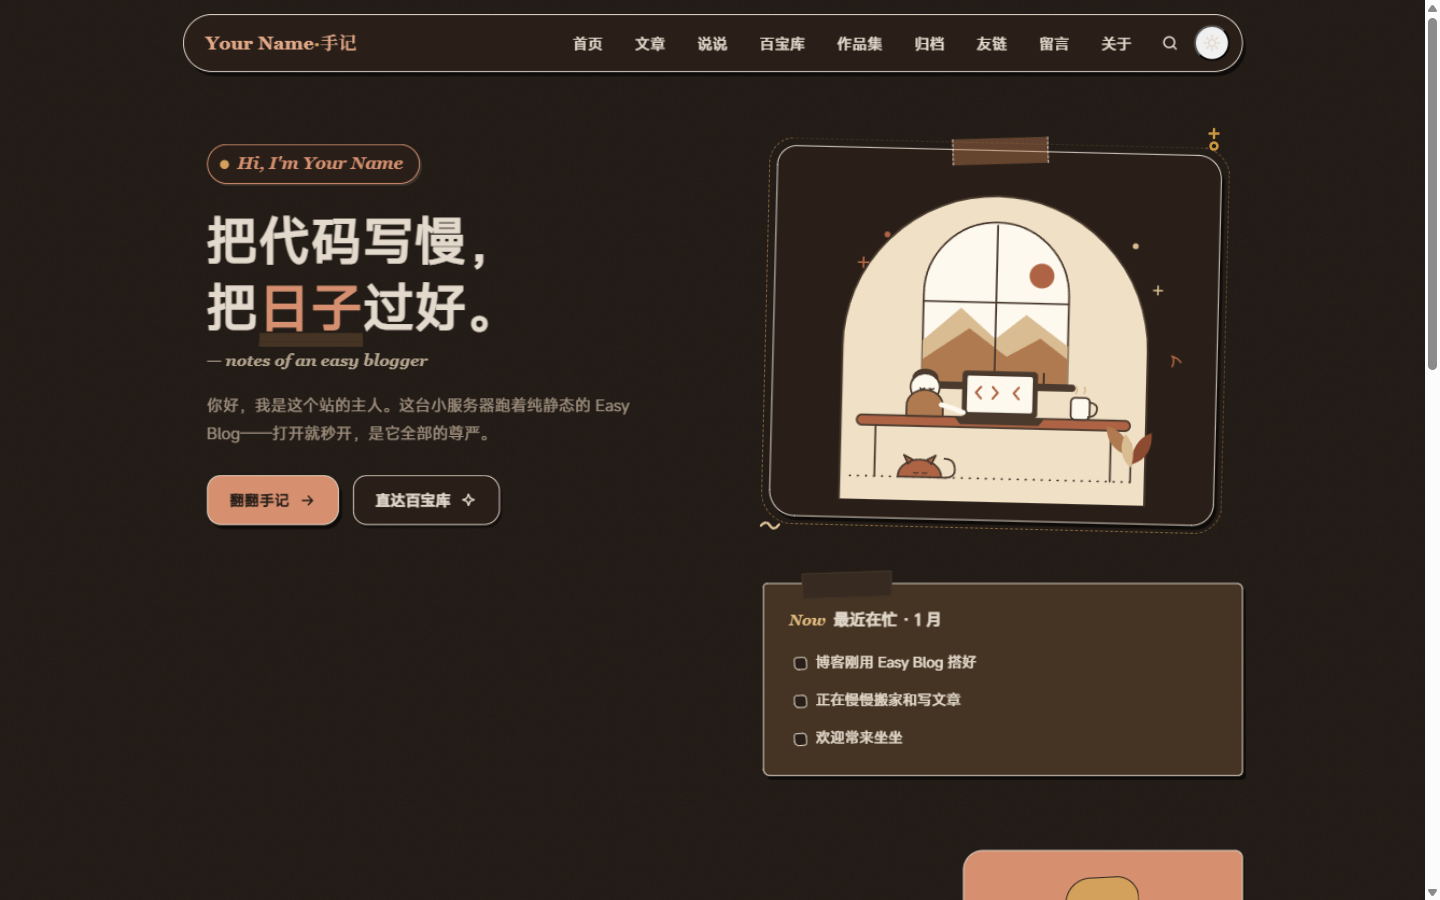
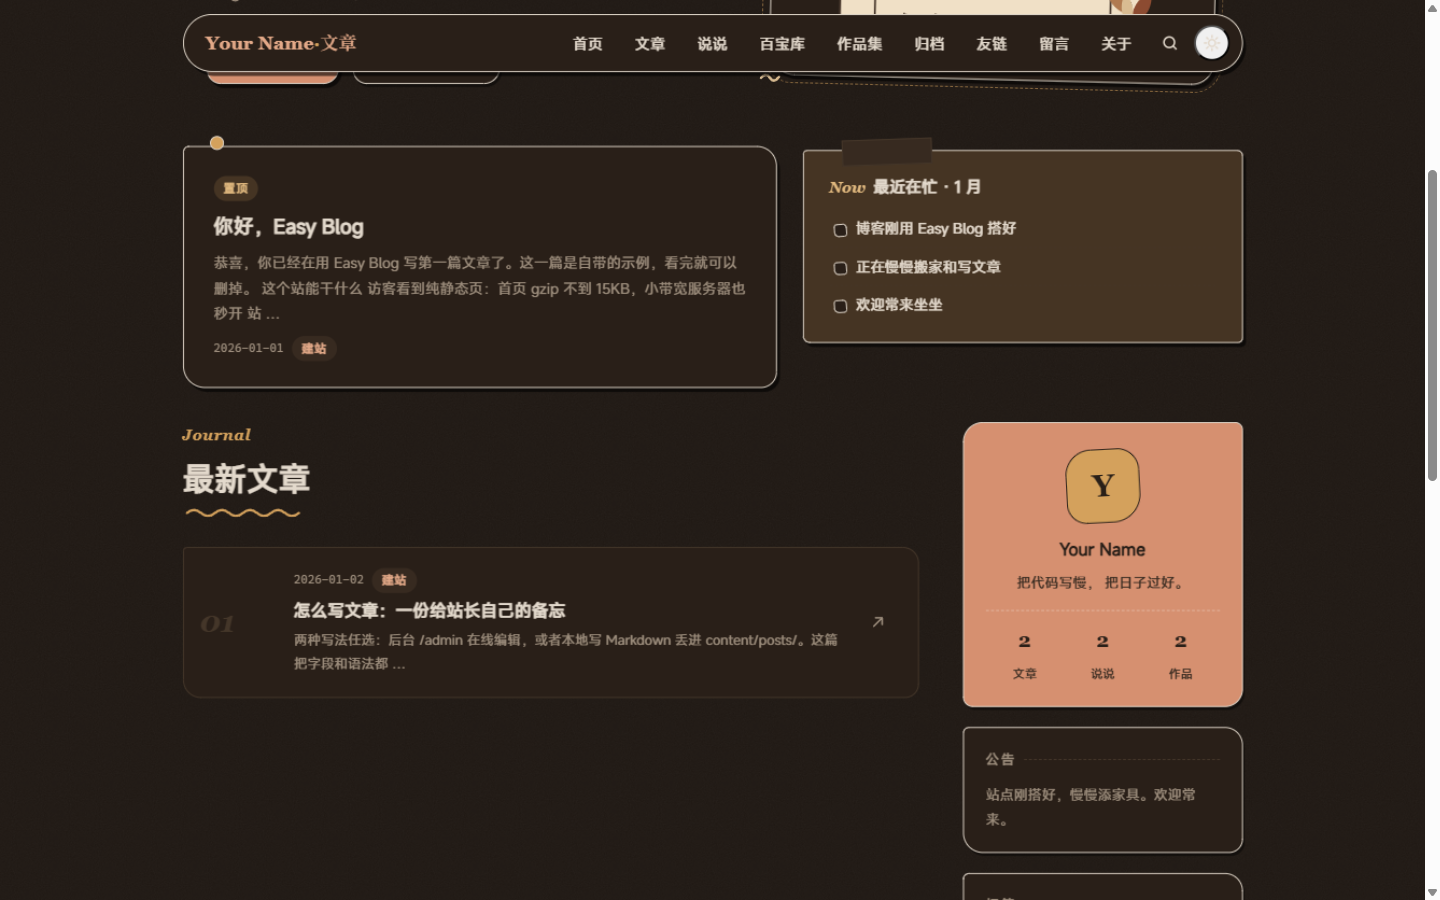
首页改版 + 文案统一 + 站点配置 AI 卡片
- 首页：置顶卡与 NOW 便利贴合并同行（桌面双列/移动单列）
- 首页：百宝库下新增「作品集精选」区块（复用 trove-mini 卡片）
- 主题：「文章」类文案参数化 posts_label（默认 文章），导航/侧栏/面包屑/404/AI 提示词统一取值
- 侧栏统计：标签数改为作品数
- 站点配置：新增 AI 助手卡片（开关/名字/打招呼/占位提示，hugo.yaml ai 块整体重写、注释保留、构建失败回滚）
- 更新 README 截图

diff --git a/layouts/index.html b/layouts/index.html
@@ -1,5 +1,6 @@
 {{ define "main" }}
 {{- $p := site.Params }}
+{{- $label := $p.posts_label | default "文章" }}
 
 {{- /* ============ Hero ============ */}}
 {{- $heroHTML := site.Params.motto | default "把代码写慢，把日子过好。" | htmlEscape }}
@@ -16,7 +17,7 @@
       <p class="sub-en rise d3">— {{ $p.sub_en }}</p>
       <p class="lead rise d3">{{ $p.intro | safeHTML }}</p>
       <div class="hero-cta rise d4">
-        <a class="btn btn-solid" href="/posts/">翻翻手记
+        <a class="btn btn-solid" href="/posts/">翻翻{{ $label }}
           <svg width="17" height="17" viewBox="0 0 24 24" fill="none" stroke="currentColor" stroke-width="2.2" stroke-linecap="round" stroke-linejoin="round" aria-hidden="true"><path d="M5 12h14M13 6l6 6-6 6"/></svg>
         </a>
         <a class="btn btn-ghost" href="/treasure/">直达百宝库
@@ -35,39 +36,45 @@
   </div>
 </header>
 
-{{- /* ============ NOW 便利贴 ============ */}}
-{{- with $p.now }}
-<div class="wrap now-wrap">
+{{- /* ============ 置顶手记 + NOW 便利贴（同行并排） ============ */}}
+{{- $all := where site.RegularPages "Section" "posts" }}
+{{- $pinned := where $all "Params.pin" true }}
+{{- if or $pinned $p.now }}
+<div class="wrap pin-now-row">
+  {{- with $pinned }}
+  <div class="pin-col">
+    {{- range . }}
+    <a class="pick-feature reveal" href="{{ .RelPermalink }}">
+      <span class="pin" aria-hidden="true"></span>
+      <span class="tag alt">置顶</span>
+      <h3>{{ .Title }}</h3>
+      <p>{{ .Summary | plainify | truncate 90 }}</p>
+      <span class="post-meta"><time class="tag plain">{{ .Date.Format "2006-01-02" }}</time>
+      {{- range .GetTerms "categories" }}<span class="tag">{{ .LinkTitle }}</span>{{ end }}
+      </span>
+    </a>
+    {{- end }}
+  </div>
+  {{- end }}
+  {{- with $p.now }}
   <aside class="now rise d5" aria-label="最近在忙">
     <h3>Now<span>最近在忙 · {{ .date }}</span></h3>
     <ul>
       {{- range .items }}<li>{{ . }}</li>{{ end }}
     </ul>
   </aside>
+  {{- end }}
 </div>
 {{- end }}
 
-{{- /* ============ 主体：文章流 + 侧栏 ============ */}}
+{{- /* ============ 主体：手记流 + 侧栏 ============ */}}
 <div class="wrap home-flow">
   <div class="layout">
     <div>
-      {{- $all := where site.RegularPages "Section" "posts" }}
-      {{- $pinned := where $all "Params.pin" true }}
       {{- $pag := .Paginate (where $all "Params.pin" "ne" true) }}
-      {{- range $pinned }}
-      <a class="pick-feature reveal" href="{{ .RelPermalink }}">
-        <span class="pin" aria-hidden="true"></span>
-        <span class="tag alt">置顶</span>
-        <h3>{{ .Title }}</h3>
-        <p>{{ .Summary | plainify | truncate 90 }}</p>
-        <span class="post-meta"><time class="tag plain">{{ .Date.Format "2006-01-02" }}</time>
-        {{- range .GetTerms "categories" }}<span class="tag">{{ .LinkTitle }}</span>{{ end }}
-        </span>
-      </a>
-      {{- end }}
       <header class="sec-head reveal">
         <span class="sec-kicker">Journal</span>
-        <h2>最新手记
+        <h2>最新{{ $label }}
           <svg class="squiggle" viewBox="0 0 118 10" fill="none" aria-hidden="true"><path d="M2 6 q7 -6 14 0 t14 0 t14 0 t14 0 t14 0 t14 0 t14 0 t14 0" stroke="currentColor" stroke-width="2.4" stroke-linecap="round"/></svg>
         </h2>
       </header>
@@ -119,6 +126,32 @@
       {{- $isLink := and .Params.link (not .Content) }}
       <a class="toy"{{ if $isLink }} href="{{ .Params.link }}" target="_blank" rel="noopener"{{ else }} href="{{ .RelPermalink }}"{{ end }}>
         <span class="toy-cat">{{ index (dict "game" "游戏" "tool" "工具" "book" "书与影") (.Params.cat | default "tool") }}{{ if not $isLink }} · 原创{{ end }}</span>
+        <h3>{{ .Title }}</h3>
+        <p class="toy-desc">{{ .Params.desc | default (.Summary | plainify | truncate 40) }}</p>
+      </a>
+      {{- end }}
+    </div>
+  </section>
+  {{- end }}
+
+  {{- /* ============ 作品集精选（仿百宝库） ============ */}}
+  {{- $worksHome := first 3 (where site.RegularPages "Section" "works") }}
+  {{- if $worksHome }}
+  <section class="section reveal" style="padding-top:26px">
+    <header class="sec-head" style="display:flex;align-items:flex-end;justify-content:space-between;gap:16px;flex-wrap:wrap;margin-bottom:22px">
+      <div>
+        <span class="sec-kicker">Works</span>
+        <h2>作品集精选
+          <svg class="squiggle" viewBox="0 0 118 10" fill="none" aria-hidden="true"><path d="M2 6 q7 -6 14 0 t14 0 t14 0 t14 0 t14 0 t14 0 t14 0 t14 0" stroke="currentColor" stroke-width="2.4" stroke-linecap="round"/></svg>
+        </h2>
+      </div>
+      <a class="more-link" href="/works/">全部作品 →</a>
+    </header>
+    <div class="trove-mini">
+      {{- range $worksHome }}
+      {{- $stk := split (.Params.stack | default "") "," }}
+      <a class="toy"{{ if .Params.link }} href="{{ .Params.link }}" target="_blank" rel="noopener"{{ else }} href="{{ .RelPermalink }}"{{ end }}>
+        <span class="toy-cat">{{ with $stk }}{{ trim (index $stk 0) " " }}{{ else }}作品{{ end }}</span>
         <h3>{{ .Title }}</h3>
         <p class="toy-desc">{{ .Params.desc | default (.Summary | plainify | truncate 40) }}</p>
       </a>

diff --git a/server/admin/index.html b/server/admin/index.html
@@ -401,6 +401,21 @@ input:focus,select:focus,textarea:focus{outline:2px dashed var(--honey);outline-
         </div>
       </div>
       <div class="card">
+        <div class="card-hd"><b>AI 助手</b>
+          <span class="hint">前台右下角的聊天小人；要真正会回答，还需服务器上配好模型 Key（AI_PROVIDER / AI_API_KEY 环境变量）</span>
+        </div>
+        <div class="fields">
+          <div><label>开关</label>
+            <div style="display:flex;gap:8px;align-items:center;padding-top:8px">
+              <input type="checkbox" id="c-ai-on" style="width:auto"><label for="c-ai-on" style="margin:0">在前台显示 AI 助手</label>
+            </div>
+          </div>
+          <div><label>名字</label><input id="c-ai-name" placeholder="如：小满"></div>
+          <div class="full"><label>打招呼（访客打开面板看到的第一句）</label><textarea id="c-ai-hello"></textarea></div>
+          <div><label>输入框占位提示</label><input id="c-ai-ph" placeholder="问点什么…"></div>
+        </div>
+      </div>
+      <div class="card">
         <div class="card-hd"><b>首页便利贴「最近在忙」</b>
           <span class="right"><button class="btn ghost sm" id="c-now-add">+ 加一条</button></span>
         </div>
@@ -1099,6 +1114,10 @@ function loadSiteCfg(){
     $('#c-seo-bing').value = c.seo_bing || '';
     $('#c-seo-baidu').value = c.seo_baidu || '';
     $('#c-now-date').value = c.now_date || '';
+    $('#c-ai-on').checked = !!c.ai_enabled;
+    $('#c-ai-name').value = c.ai_name || '';
+    $('#c-ai-hello').value = c.ai_hello || '';
+    $('#c-ai-ph').value = c.ai_placeholder || '';
     renderNowItems(c.now_items || []);
   });
 }
@@ -1131,6 +1150,12 @@ $('#c-save').addEventListener('click', function(){
       intro: $('#c-intro').value, site_birth: $('#c-birth').value, icp: $('#c-icp').value,
       notice: $('#c-notice').value,
       seo_google: $('#c-seo-google').value.trim(), seo_bing: $('#c-seo-bing').value.trim(), seo_baidu: $('#c-seo-baidu').value.trim()
+    },
+    ai: {
+      enabled: $('#c-ai-on').checked,
+      name: $('#c-ai-name').value.trim(),
+      hello: $('#c-ai-hello').value.trim(),
+      placeholder: $('#c-ai-ph').value.trim()
     },
     nowDate: $('#c-now-date').value, items: items, build: true
   }).then(function(j){ afterBuild(j, '设置已发布！') }).catch(function(e){ toast(e.message, 1) });

diff --git a/layouts/partials/head.html b/layouts/partials/head.html
@@ -35,7 +35,7 @@
 <script type="application/ld+json">{"@context":"https://schema.org","@type":"Person","name":{{ site.Params.author | jsonify }},"url":{{ site.BaseURL | jsonify }},"description":{{ site.Params.motto | jsonify }}{{- $same := slice }}{{- range site.Params.socials }}{{ $same = $same | append .url }}{{- end }}{{ with $same }},"sameAs":{{ $same | jsonify }}{{ end }}}</script>
 {{- else if and (eq .Kind "page") (eq .Section "posts") }}
 <script type="application/ld+json">{"@context":"https://schema.org","@type":"BlogPosting","headline":{{ .Title | jsonify }},"description":{{ $desc | plainify | jsonify }},"url":{{ .Permalink | jsonify }},"mainEntityOfPage":{{ .Permalink | jsonify }},"datePublished":{{ .Date.Format "2006-01-02T15:04:05Z07:00" | jsonify }},"dateModified":{{ .Lastmod.Format "2006-01-02T15:04:05Z07:00" | jsonify }},"wordCount":{{ .WordCount }},"inLanguage":"zh-CN"{{- with $ogImage }},"image":{{ (printf "/img/%s.jpg" .) | absURL | jsonify }}{{- end }},"author":{"@type":"Person","name":{{ site.Params.author | jsonify }}},"publisher":{"@type":"Person","name":{{ site.Params.author | jsonify }}}}</script>
-<script type="application/ld+json">{"@context":"https://schema.org","@type":"BreadcrumbList","itemListElement":[{"@type":"ListItem","position":1,"name":"首页","item":{{ site.BaseURL | jsonify }}},{"@type":"ListItem","position":2,"name":"手记","item":{{ "posts/" | absURL | jsonify }}},{"@type":"ListItem","position":3,"name":{{ .Title | jsonify }},"item":{{ .Permalink | jsonify }}}]}</script>
+<script type="application/ld+json">{"@context":"https://schema.org","@type":"BreadcrumbList","itemListElement":[{"@type":"ListItem","position":1,"name":"首页","item":{{ site.BaseURL | jsonify }}},{"@type":"ListItem","position":2,"name":"{{ site.Params.posts_label | default "文章" }}","item":{{ "posts/" | absURL | jsonify }}},{"@type":"ListItem","position":3,"name":{{ .Title | jsonify }},"item":{{ .Permalink | jsonify }}}]}</script>
 {{- end }}
 <meta name="theme-color" content="#F7F1E4" media="(prefers-color-scheme: light)">
 <meta name="theme-color" content="#1F1813" media="(prefers-color-scheme: dark)">

diff --git a/assets/css/main.css b/assets/css/main.css
@@ -137,7 +137,10 @@ a.tag:hover{background:var(--pine);color:var(--paper)}
 @keyframes float{0%,100%{transform:translateY(0)}50%{transform:translateY(-9px)}}
 
 /* ---------- NOW 便利贴 ---------- */
-.now-wrap{display:flex;justify-content:flex-end;padding:22px 0 10px}
+.pin-now-row{display:grid;grid-template-columns:minmax(0,1.35fr) minmax(280px,1fr);gap:26px;align-items:start;padding:26px 0 0}
+.pin-now-row .pick-feature{margin-bottom:20px}
+.pin-now-row .pick-feature:last-child{margin-bottom:0}
+.pin-now-row .now{width:100%;margin-top:4px}
 .now{
   width:min(480px,100%);background:var(--caramel-mist);border:1.5px solid var(--ink);
   border-radius:4px 6px 5px 7px;padding:22px 26px 18px;transform:rotate(-1.3deg);
@@ -152,8 +155,8 @@ a.tag:hover{background:var(--pine);color:var(--paper)}
 .now li:last-child{border-bottom:none}
 .now li::before{content:"";position:absolute;left:4px;top:14px;width:11px;height:11px;border:1.5px solid var(--ink);border-radius:3px 4px 3px 5px;background:var(--paper);transform:rotate(-4deg)}
 
-/* ---------- 首页：精选 + 文章流 ---------- */
-.home-flow{padding:64px 0 30px}
+/* ---------- 首页：精选 + 手记流 ---------- */
+.home-flow{padding:34px 0 30px}
 .pick-feature{
   display:block;position:relative;margin-bottom:26px;padding:26px 30px;
   background:var(--paper);border:1.5px solid var(--ink);border-radius:6px 20px 16px 22px;
@@ -552,13 +555,16 @@ footer::before{content:"";display:block;width:150px;margin:0 auto 22px;border-to
   .hero-art{max-width:470px;margin:0 auto}
   .about-grid{grid-template-columns:1fr;gap:36px}
   .article-toc{display:none}
+  .pin-now-row{grid-template-columns:1fr}
+  .pin-now-row .now{margin-top:2px}
 }
 @media(max-width:600px){
   .nav{top:8px;margin-top:8px;padding:6px 8px 6px 14px}
   .nav-links a{padding:5px 9px;font-size:13px}
   .hero{padding-top:44px}
   .hero h1{font-size:30px}
-  .now-wrap{padding:12px 0 4px}
+  .pin-now-row{padding:16px 0 0}
+  .pin-now-row .now{transform:rotate(-.6deg)}
   .post-item{grid-template-columns:1fr;gap:6px;padding:16px 18px}
   .post-no{display:none}
   .post-arrow{display:none}

diff --git a/static/ai/chat.js b/static/ai/chat.js
@@ -66,12 +66,13 @@
     var acc = '';
 
     loadIndex().then(function () {
-      var sys = '你是个人网站「' + (cfg.site || 'Easy Blog') + '」的 AI 导览员' +
+      var LB = cfg.label || '文章';
+      var sys = '你是个人网站「' + (cfg.site || '我的小站') + '」的 AI 导览员' +
         (cfg.name ? '，名字叫' + cfg.name : '') +
         '。语气轻松口语化，答案简洁（尽量 3 句以内），不用列大段清单。\n' +
-        '站点页面：/posts/ 文章、/sayings/ 说说、/treasure/ 百宝库(好物推荐)、/archives/ 归档、/search/ 搜索、/board/ 留言板、/about/ 关于。\n' +
-        (siteIndex ? '现有文章列表：\n' + siteIndex + '\n' : '') +
-        '问题与文章相关就结合列表回答并给出 /posts/xxx/ 路径；无关问题也可以聊，但记住自己的人设。';
+        '站点页面：/posts/ ' + LB + '、/sayings/ 说说、/treasure/ 百宝库(好物推荐)、/archives/ 归档、/search/ 搜索、/board/ 留言板、/about/ 关于。\n' +
+        (siteIndex ? '现有' + LB + '列表：\n' + siteIndex + '\n' : '') +
+        '问题与' + LB + '相关就结合列表回答并给出 /posts/xxx/ 路径；无关问题也可以聊，但记住自己的人设。';
 
       history.push({ role: 'user', content: q });
       var body = JSON.stringify({ messages: [{ role: 'system', content: sys }].concat(history.slice(-12)) });

diff --git a/layouts/404.html b/layouts/404.html
@@ -2,7 +2,7 @@
 <div class="wrap" style="padding-top:90px;text-align:center;max-width:560px">
   <p style="font-family:var(--font-en);font-style:italic;font-weight:600;font-size:74px;line-height:1;color:var(--caramel)">404</p>
   <h1 style="font-size:24px;margin:14px 0 8px">这页纸好像被风吹走了</h1>
-  <p style="color:var(--ink-soft);font-size:15px;margin-bottom:28px">地址可能敲错了，或者文章还没写出来。<br>要不，回首页翻翻？</p>
+  <p style="color:var(--ink-soft);font-size:15px;margin-bottom:28px">地址可能敲错了，或者{{ site.Params.posts_label | default "文章" }}还没写出来。<br>要不，回首页翻翻？</p>
   <a class="btn btn-solid" href="{{ site.Home.RelPermalink }}">回首页
     <svg width="17" height="17" viewBox="0 0 24 24" fill="none" stroke="currentColor" stroke-width="2.2" stroke-linecap="round" stroke-linejoin="round" aria-hidden="true"><path d="M5 12h14M13 6l6 6-6 6"/></svg>
   </a>

diff --git a/layouts/partials/sidebar.html b/layouts/partials/sidebar.html
@@ -1,4 +1,4 @@
-{{- /* 侧边栏（文章页会被 TOC 覆盖） */}}
+{{- /* 侧边栏（内容页会被 TOC 覆盖） */}}
 <div class="side">
   <div class="side-card me-card">
     {{- if fileExists "static/img/avatar.jpg" }}
@@ -11,9 +11,10 @@
     <div class="me-stats">
       {{- $posts := where site.RegularPages "Section" "posts" }}
       {{- $says := where site.RegularPages "Section" "sayings" }}
-      <div><b>{{ len $posts }}</b><span>文章</span></div>
+      {{- $works := where site.RegularPages "Section" "works" }}
+      <div><b>{{ len $posts }}</b><span>{{ site.Params.posts_label | default "文章" }}</span></div>
       <div><b>{{ len $says }}</b><span>说说</span></div>
-      <div><b>{{ len site.Taxonomies.tags }}</b><span>标签</span></div>
+      <div><b>{{ len $works }}</b><span>作品</span></div>
     </div>
   </div>
   {{- with site.Params.notice }}

diff --git a/layouts/sayings/list.html b/layouts/sayings/list.html
@@ -6,7 +6,7 @@
     <h1 style="font-size:clamp(26px,3.6vw,34px)">说说
       <svg class="squiggle" viewBox="0 0 118 10" fill="none" aria-hidden="true"><path d="M2 6 q7 -6 14 0 t14 0 t14 0 t14 0 t14 0 t14 0 t14 0 t14 0" stroke="currentColor" stroke-width="2.4" stroke-linecap="round"/></svg>
     </h1>
-    <p style="color:var(--ink-soft);font-size:14.5px;margin-top:-16px">三言两语，不成文章。</p>
+    <p style="color:var(--ink-soft);font-size:14.5px;margin-top:-16px">三言两语，不成{{ site.Params.posts_label | default "文章" }}。</p>
   </header>
   <div class="layout">
     <ol class="say-list">

diff --git a/layouts/partials/ai.html b/layouts/partials/ai.html
@@ -23,7 +23,7 @@
   </div>
 </div>
 <script>
-window.__AI_CFG={name:{{ $ai.name | jsonify }},hello:{{ $ai.hello | jsonify }},site:{{ site.Title | jsonify }}};
+window.__AI_CFG={name:{{ $ai.name | jsonify }},hello:{{ $ai.hello | jsonify }},site:{{ printf "%s 的%s" site.Params.author (site.Params.posts_label | default "文章") | jsonify }},label:{{ site.Params.posts_label | default "文章" | jsonify }}};
 (function(){
   var fab=document.getElementById('ai-fab'),loaded=false;
   fab.addEventListener('click',function(){

diff --git a/layouts/_default/single.html b/layouts/_default/single.html
@@ -5,7 +5,7 @@
   {{- /* ================= 文章页 ================= */}}
   <article class="article">
     <nav class="crumb" aria-label="面包屑">
-      <a href="{{ site.Home.RelPermalink }}">首页</a> / <a href="/posts/">手记</a> / {{ .Title }}
+      <a href="{{ site.Home.RelPermalink }}">首页</a> / <a href="/posts/">{{ site.Params.posts_label | default "文章" }}</a> / {{ .Title }}
     </nav>
     <h1>{{ .Title }}</h1>
     <div class="article-meta">

diff --git a/layouts/partials/nav.html b/layouts/partials/nav.html
@@ -1,5 +1,5 @@
 <nav class="nav" aria-label="主导航">
-  <a class="nav-logo" href="{{ site.Home.RelPermalink }}">{{ site.Params.author }}<b>·</b>手记</a>
+  <a class="nav-logo" href="{{ site.Home.RelPermalink }}">{{ site.Params.author }}<b>·</b>{{ site.Params.posts_label | default "文章" }}</a>
   <div class="nav-right">
     <ul class="nav-links">
       {{- range site.Menus.main }}

diff --git a/server/siteconfig.go b/server/siteconfig.go
@@ -23,6 +23,7 @@ func readSiteConfig() map[string]any {
 		"site_birth": "", "icp": "", "notice": "", "now_date": "",
 		"seo_google": "", "seo_bing": "", "seo_baidu": "",
 		"now_items": []string{},
+		"ai_enabled": false, "ai_name": "", "ai_hello": "", "ai_placeholder": "",
 	}
 	b, err := os.ReadFile(hugoYamlPath)
 	if err != nil {
@@ -32,12 +33,13 @@ func readSiteConfig() map[string]any {
 		out["title"] = strings.Trim(strings.TrimSpace(m[1]), `"`)
 	}
 	lines := strings.Split(string(b), "\n")
-	inNow := false
+	inNow, inAI := false, false
 	var items []string
 	reKV := regexp.MustCompile(`^\s{2}(\w+):\s*(.*)$`)
 	for _, l := range lines {
 		if m := reKV.FindStringSubmatch(l); m != nil {
 			inNow = m[1] == "now"
+			inAI = m[1] == "ai"
 			if v, ok := out[m[1]]; ok {
 				if _, isStr := v.(string); isStr && m[2] != "" {
 					raw := m[2]
@@ -60,6 +62,22 @@ func readSiteConfig() map[string]any {
 				inNow = false
 			}
 		}
+		if inAI {
+			if m := regexp.MustCompile(`^\s{4}(enabled|name|placeholder):\s*(.*)$`).FindStringSubmatch(l); m != nil {
+				v := strings.Trim(strings.TrimSpace(m[2]), `"`)
+				if m[1] == "enabled" {
+					out["ai_enabled"] = v == "true"
+				} else {
+					out["ai_"+m[1]] = v
+				}
+			}
+			if m := regexp.MustCompile(`^\s{4}hello:\s*(.*)$`).FindStringSubmatch(l); m != nil {
+				out["ai_hello"] = strings.Trim(strings.TrimSpace(m[1]), `"`)
+			}
+			if regexp.MustCompile(`^\S`).MatchString(l) && strings.TrimSpace(l) != "" {
+				inAI = false
+			}
+		}
 	}
 	out["now_items"] = items
 	return out
@@ -71,7 +89,14 @@ func yamlQuote(v string) string {
 	return `"` + strings.NewReplacer(`\`, `\\`, `"`, `\"`).Replace(v) + `"`
 }
 
-func writeSiteConfig(fields map[string]string, items []string, nowDate string, build bool) (string, bool, error) {
+type aiCfg struct {
+	Enabled     bool   `json:"enabled"`
+	Name        string `json:"name"`
+	Hello       string `json:"hello"`
+	Placeholder string `json:"placeholder"`
+}
+
+func writeSiteConfig(fields map[string]string, items []string, nowDate string, ai *aiCfg, build bool) (string, bool, error) {
 	b, err := os.ReadFile(hugoYamlPath)
 	if err != nil {
 		return "", false, err
@@ -122,6 +147,20 @@ func writeSiteConfig(fields map[string]string, items []string, nowDate string, b
 			}
 			src = regexp.MustCompile(`(?m)^\s{2}now:\n(?:[ \t]+.*\n?)*`).ReplaceAllString(src, nb.String())
 		}
+	}
+	/* ai 块整体重写（若提供了 ai 配置）；块后的空行兜底，正则不会吞掉后面的键 */
+	if ai != nil && regexp.MustCompile(`(?m)^  ai:\n`).MatchString(src) {
+		ab := strings.Builder{}
+		ab.WriteString("  ai:\n")
+		if ai.Enabled {
+			ab.WriteString("    enabled: true\n")
+		} else {
+			ab.WriteString("    enabled: false\n")
+		}
+		ab.WriteString("    name: " + yamlQuote(ai.Name) + "\n")
+		ab.WriteString("    hello: " + yamlQuote(ai.Hello) + "\n")
+		ab.WriteString("    placeholder: " + yamlQuote(ai.Placeholder) + "\n")
+		src = regexp.MustCompile(`(?m)^  ai:\n(?:[ \t]+.*\n?)*`).ReplaceAllString(src, ab.String())
 	}
 	return saveAndBuild(hugoYamlPath, []byte(src), build)
 }
@@ -215,6 +254,7 @@ func handleSiteConfig(w http.ResponseWriter, r *http.Request) {
 			Fields  map[string]string `json:"fields"`
 			NowDate string            `json:"nowDate"`
 			Items   *[]string         `json:"items"`
+			AI      *aiCfg            `json:"ai"`
 			Build   bool              `json:"build"`
 		}
 		if !decodeBody(w, r, &req) {
@@ -230,7 +270,7 @@ func handleSiteConfig(w http.ResponseWriter, r *http.Request) {
 				return
 			}
 		}
-		logStr, built, err := writeSiteConfig(req.Fields, items, req.NowDate, req.Build)
+		logStr, built, err := writeSiteConfig(req.Fields, items, req.NowDate, req.AI, req.Build)
 		if err != nil {
 			writeJSON(w, http.StatusInternalServerError, map[string]any{"error": "保存或构建失败（已回滚）", "log": logStr + "\n" + err.Error()})
 			return
